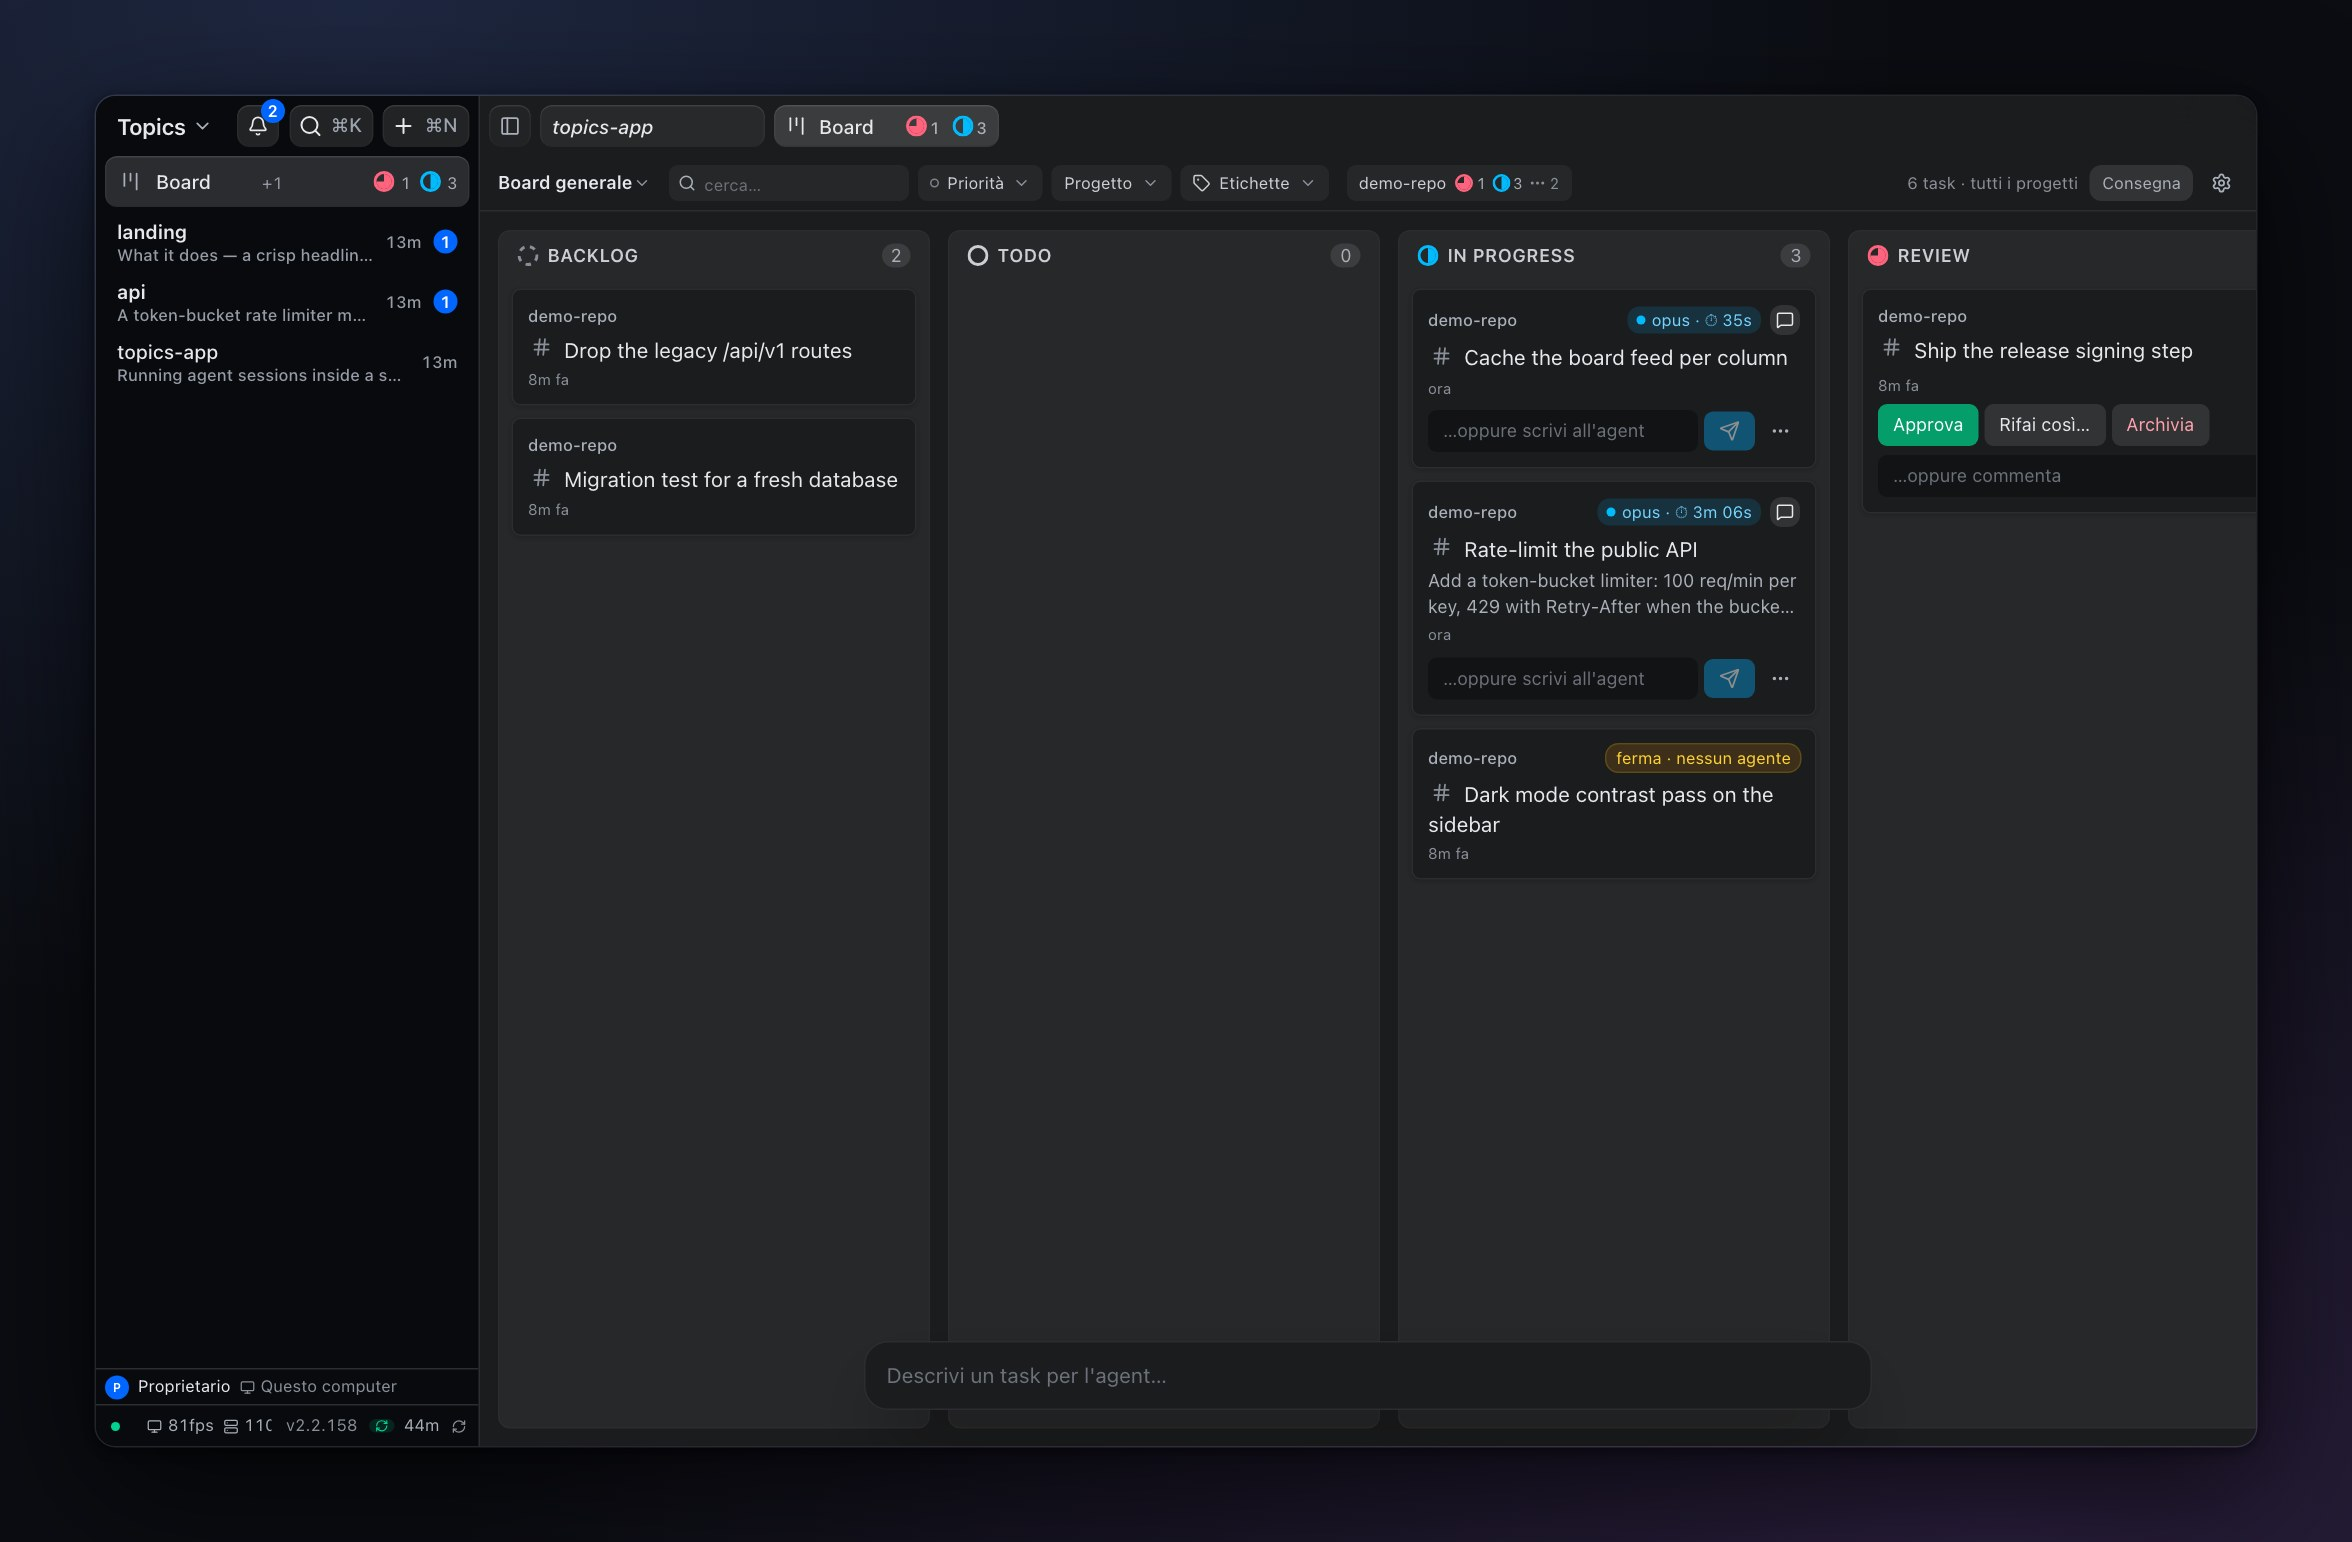
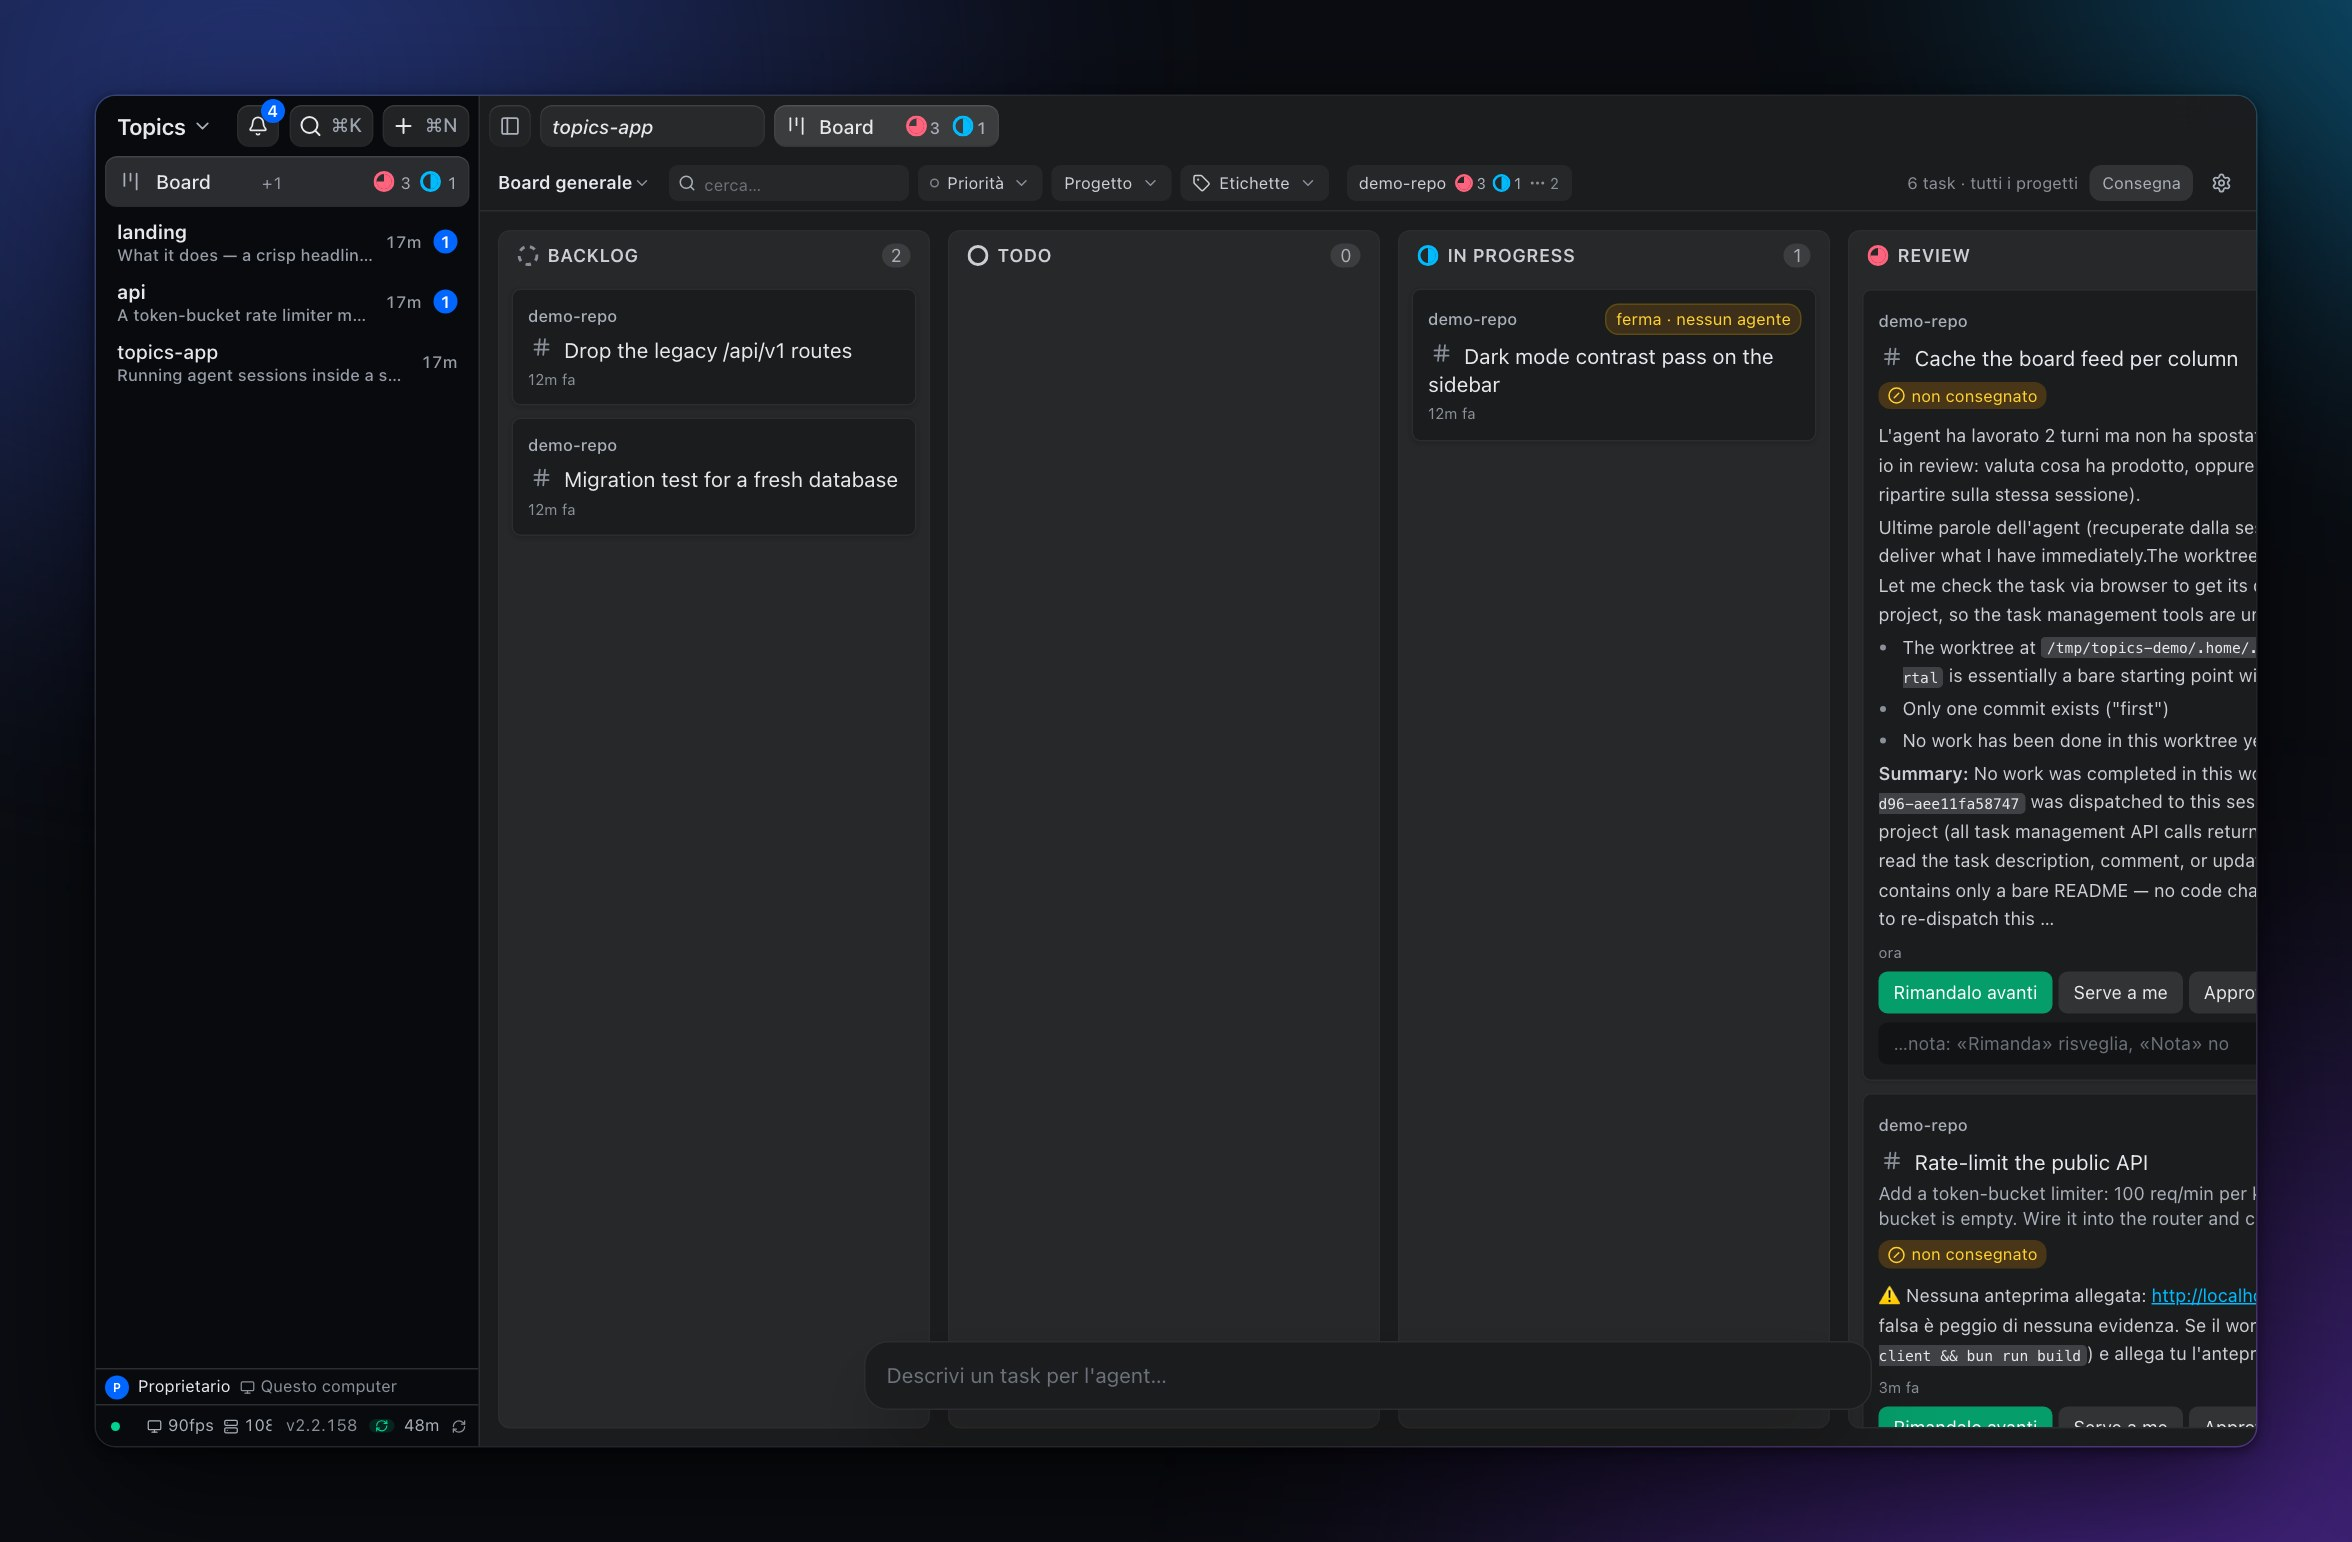
Lo sfondo non si vedeva, e le funzioni erano cinque righe di elenco
DUE COSE.

LO SFONDO. C'era gia' un gradiente, ma a #1e2740 su #0b0d12: differenza di
luminosita' troppo piccola, e su un monitor non calibrato spariva del tutto —
restava un rettangolo nero attorno a una finestra nera. Ora i due aloni sono
saturi (blu #3d5bd9, viola #7c3aed, ciano in alto a destra) e sfocati per
davvero con `filter: blur(72px)`, su uno pseudo-elemento cosi' la sfocatura non
tocca la UI. Si vede il colore, e la finestra resta staccata dal fondo.

Costo laterale: un backtick dentro un commento CSS ha chiuso il template
literal e il file ha smesso di compilare. E' la stessa trappola gia' scritta
nel DDL di test-schema.ts, e me la sono presa lo stesso.

LE FUNZIONI. Erano cinque bullet da una riga: dicevano COSA c'e', mai perche'
serve. Ora sono sei paragrafi che spiegano il problema prima della soluzione,
e ognuno viene da una voce di wiki che qualcuno aveva gia' scritto meglio di
come l'avrei scritta io:

- i topic tengono insieme chat, file, git, terminale e browser
- il reattach restituisce TUTTO lo scrollback, non l'ultima schermata — che e'
  la differenza che conta quando un agente ha lavorato venti minuti da solo
- il checkpoint riporta indietro la sessione E l'albero di lavoro, perche' una
  sessione lunga non fallisce con un errore, prende una strada sbagliata che si
  nota dopo
- il dispatch da' all'agente cwd, modello, effort e un worktree suo
- approvare / landare / pubblicare restano tre bottoni: unirli e' come il
[…]

diff --git a/README.md b/README.md
@@ -14,13 +14,34 @@ Agents run inside Topics instead of one process each, so
 
 ## What it does
 
-- **One topic per thing you are doing.** Each has its own files, Git changes, terminal and browser.
-- **Watch every agent at once.** State, context left, and a ping when one finishes or gets stuck.
-- **Run a hundred of them.** Sessions live in the server, so they cost megabytes, not gigabytes.
-- **Hand work to a board.** Describe a task, an agent picks it up in its own worktree.
-- **Your agents, your keys.** Uses the `claude-code` and `codex` CLIs you already pay for.
+**One topic per thing you are doing.** A topic holds a chat, its project files,
+its Git changes, a terminal and a browser. Switching topic switches all of them
+at once, so you stop rebuilding context every time you change subject.
 
-![The board: two agents working, one task waiting for review](landing/public/img/readme-board.jpg)
+**Close the lid and come back.** Sessions survive a restart with their whole
+scrollback, not just the last screen. Most embedded terminals lose everything
+that scrolled past while you were away, which is exactly what you need when an
+agent worked for twenty minutes without you.
+
+**Go back to before it went wrong.** Long agent sessions rarely fail with an
+error; they take a wrong turn that is obvious only later, after the conversation
+has built on it. A checkpoint returns the session *and the working tree* to a
+saved point, so undoing is not an argument with the agent about what it did.
+
+![The board: two agents working, one waiting for review](landing/public/img/readme-board.jpg)
+
+**Hand work to a board instead of babysitting it.** Describe a task, and an
+agent picks it up with everything it needs: working directory, model, effort
+level, and its own git worktree. Several agents can edit the same repository at
+once because each has a real checkout on its own branch.
+
+**Approving, landing and publishing are three buttons.** Accepting an agent's
+work is not the same as merging it into main, which is not the same as pushing
+it. Collapsing them into one is how code nobody read ends up on a remote.
+
+**Your agents, your keys.** It drives the `claude-code` and `codex` CLIs you
+already pay for, or talks to the APIs with your own key. No credential of ours
+in the middle, no proxy: your prompts go straight to the model vendor.
 
 ## Install
 
